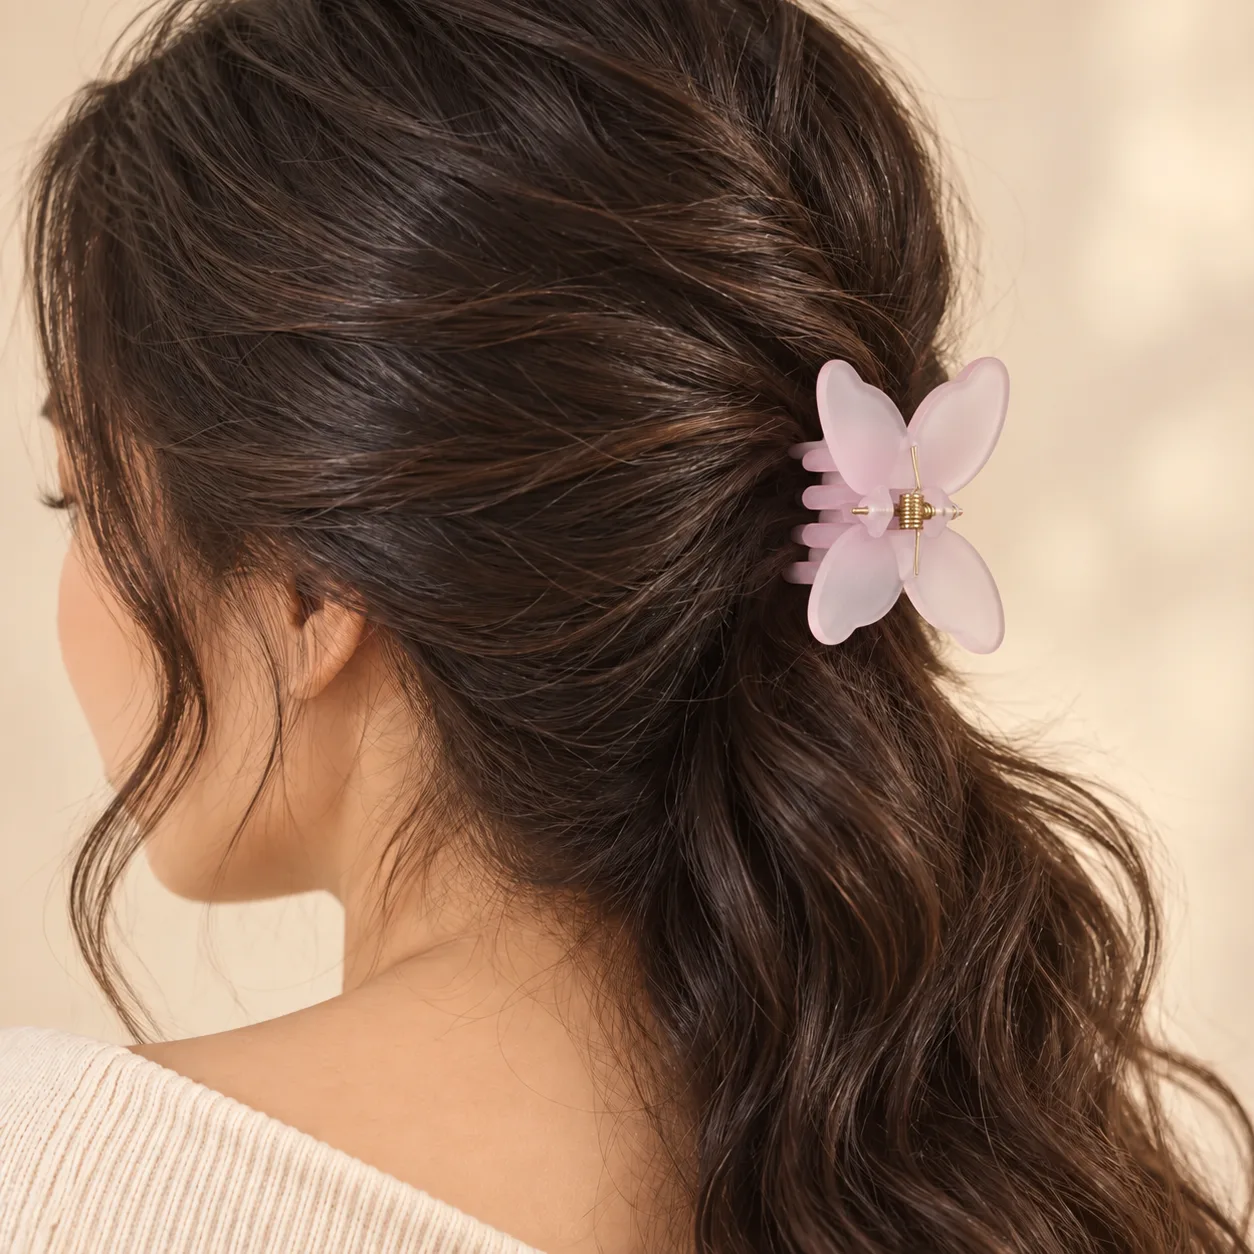
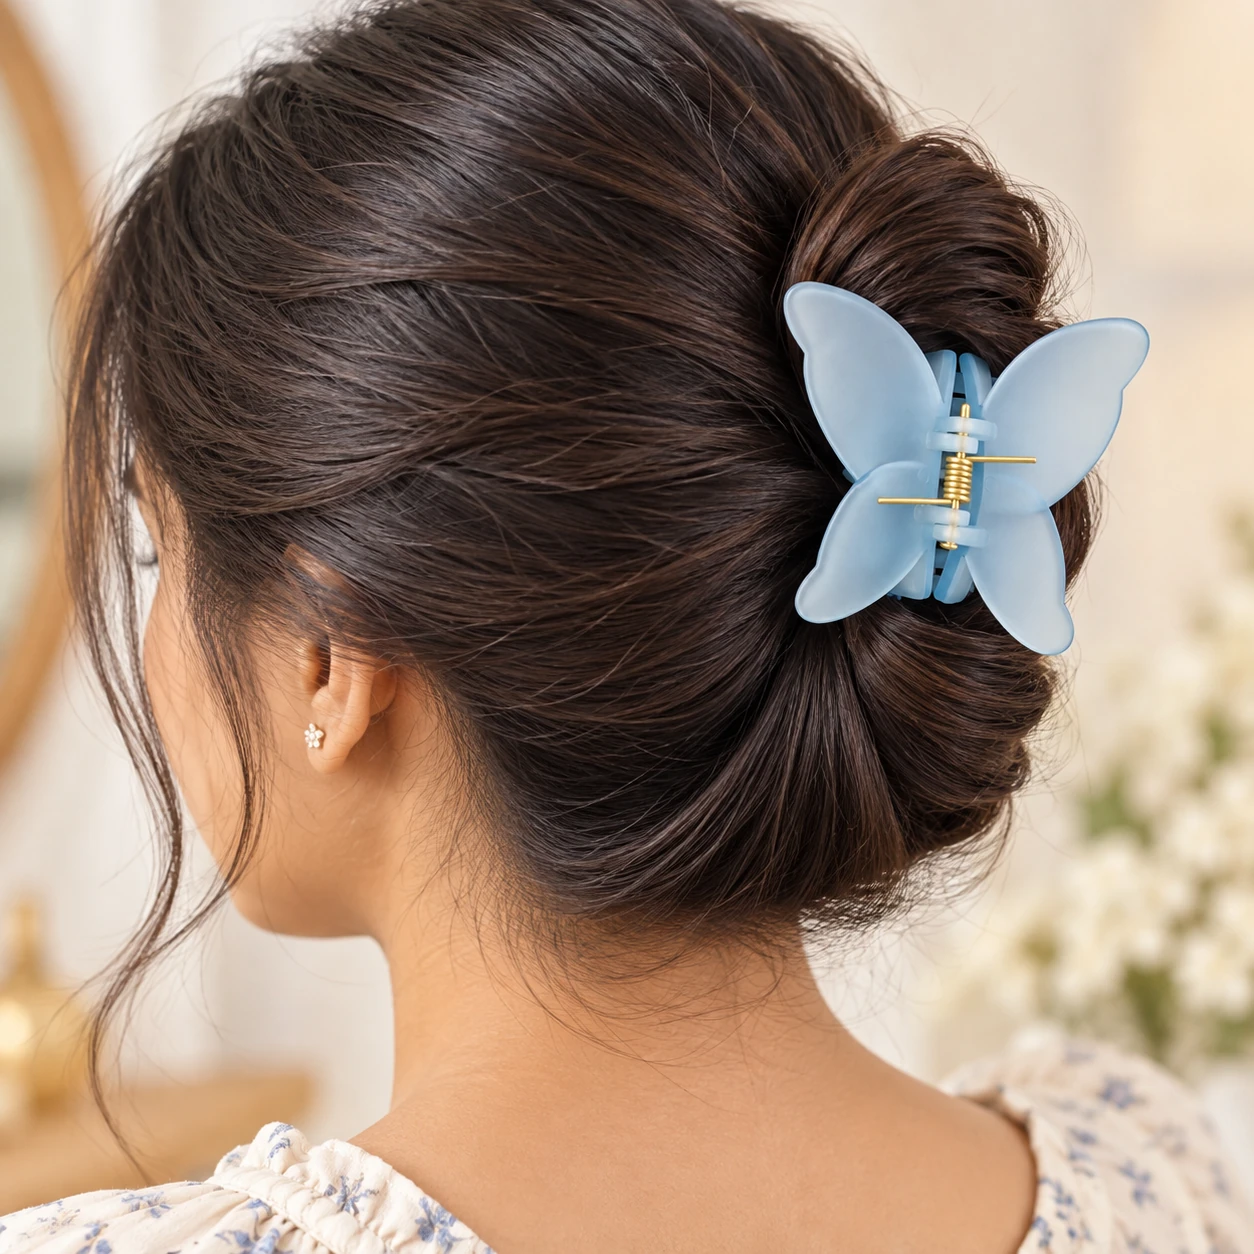
new product added

diff --git a/kuttycouture-website/src/data/products.ts b/kuttycouture-website/src/data/products.ts
@@ -65,6 +65,10 @@ import butterflyClipPurple100010 from "../assets/products/hair-accessories/trans
 import butterflyClipWhite100010 from "../assets/products/hair-accessories/translucent-butterfly-hair-clip-white-100010.webp";
 import butterflyClipModel100010 from "../assets/products/hair-accessories/translucent-butterfly-hair-clip-model-pink-100010.webp";
 
+// SKU-100011
+import clearBowHairClipOrange100011 from "../assets/products/hair-accessories/clear-bow-hair-claw-clip-orange-100011.webp";
+import clearBowHairClipModel100011 from "../assets/products/hair-accessories/clear-bow-hair-claw-clip-model-100011.webp";
+import clearBowHairClipGreen100011 from "../assets/products/hair-accessories/clear-bow-hair-claw-clip-green-100011.webp";
 export const products: Product[] = [
   // ---------------------------------------------------------------------------
   // ACCESSORIES
@@ -494,6 +498,44 @@ export const products: Product[] = [
       {
         src: butterflyClipModel100010,
         alt: "Woman wearing the soft pink translucent butterfly hair claw clip in her wavy hair.",
+      },
+    ],
+  },
+
+  {
+    id: "clear-bow-hair-claw-clip",
+    name: "Clear Bow Hair Claw Clip",
+    sku: 100011,
+    stockCount: 2,
+
+    category: "accessories",
+    productType: "hair-accessories",
+    audience: ["women", "kids"],
+
+    shortDescription:
+      "A clear bow-shaped hair claw clip with a faceted centre detail and a gold-tone spring.",
+
+    price: null,
+    availability: "in-stock",
+
+    material: "Plastic with a metal spring",
+    occasionTags: ["Everyday", "casual"],
+
+    offerAvailable: false,
+
+    images: [
+      {
+        src: clearBowHairClipOrange100011,
+        alt: "Clear bow-shaped hair claw clip with a faceted centre detail and gold-tone spring, displayed on warm orange satin.",
+      },
+      
+      {
+        src: clearBowHairClipModel100011,
+        alt: "Woman wearing the clear bow-shaped hair claw clip in a softly styled bun.",
+      },
+      {
+        src: clearBowHairClipGreen100011,
+        alt: "Front view of a clear bow-shaped hair claw clip with a faceted centre detail and gold-tone spring, displayed on warm green satin.",
       },
     ],
   },
